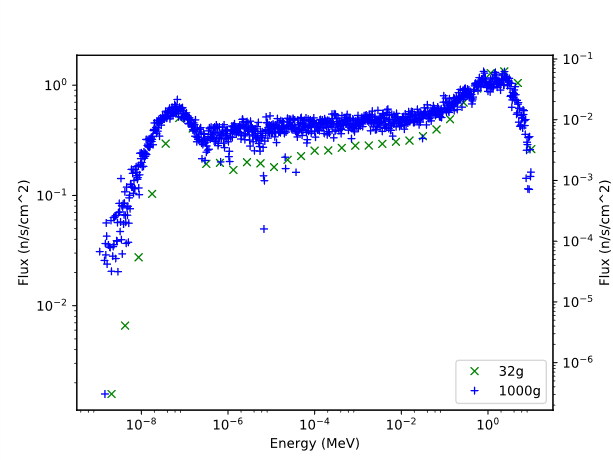
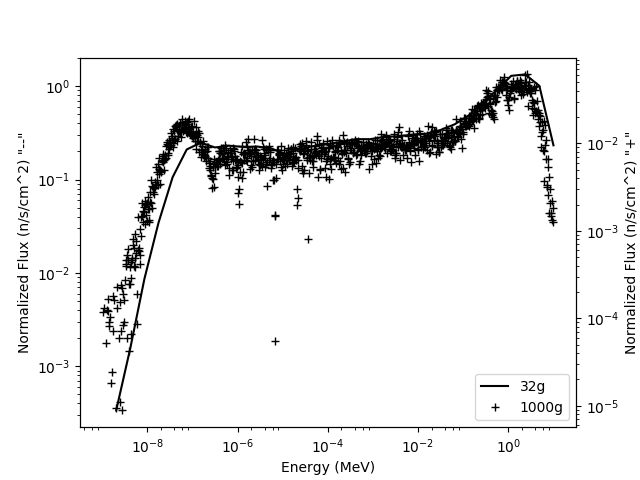
new flux image

diff --git a/class data/flux.py b/class data/flux.py
@@ -46,12 +46,12 @@ y2 = flux1000
 fig, ax1 = plt.subplots()
 ax2 = ax1.twinx()
 
-small = ax1.plot(x1, y1, 'gx', label = '32g')
-large = ax2.plot(x2, y2, 'b+', label = '1000g')
+small = ax1.plot(x1, y1, 'k-', label = '32g')
+large = ax2.plot(x2, y2, 'k+', label = '1000g')
 
 ax1.set_xlabel('Energy (MeV)')
-ax1.set_ylabel('Flux (n/s/cm^2)')
-ax2.set_ylabel('Flux (n/s/cm^2)')
+ax1.set_ylabel('Normalized Flux (n/s/cm^2) "--"')
+ax2.set_ylabel('Normalized Flux (n/s/cm^2) "+"')
 ax1.set_xscale('log')
 ax1.set_yscale('log')
 ax2.set_xscale('log')
